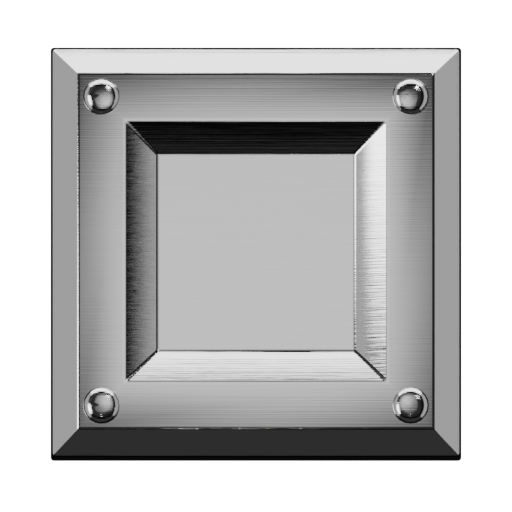
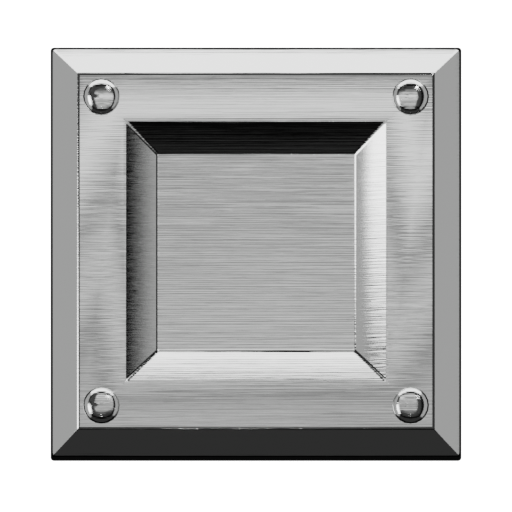
Hard-edged bands on the locked plate softbox
A mirror shows what is in front of it, so a card that is a smooth
radial blob reflects as a smooth radial blob - indistinguishable
from matte. What reads as polish is an edge. The gem sky in
build_lights has always known this; its ramp is all hard stops.

Also restores the ramp stop loop, which an earlier edit had
swallowed whole. The card had been running on a default black-to-
white ramp under CONSTANT interpolation - black everywhere - which
is why two different ramps rendered byte-identical percentiles.

diff --git a/tools/blender/render_items.py b/tools/blender/render_items.py
@@ -3712,16 +3712,16 @@ LOCK_BOX_DROP = 0.60
 # be roughly the size of the piece.
 LOCK_CEILING_SPAN = 0.34
 LOCK_CEILING_Z = 0.30
-LOCK_CEILING_PEAK = 1.60
-# Stops on the softbox's radial falloff, from its rim inwards. A
-# spherical gradient over centred 0..1 coordinates reads about 0.3 at
-# the card's corners and 1.0 at its middle.
-LOCK_CEILING_RAMP = ((0.00, 0.00), (0.34, 0.04), (0.62, 0.34),
-                     (0.86, 0.88), (1.00, 1.00))
+LOCK_CEILING_PEAK = 2.20
+# The bands across the softbox, top of frame to bottom - and screen
+# up is world -y here, so the first stop is the top edge.
+LOCK_CEILING_RAMP = ((0.00, 0.30), (0.13, 1.00), (0.33, 0.26),
+                     (0.49, 0.72), (0.60, 0.22), (0.76, 0.50),
+                     (0.88, 0.20))
 # And a big dim one well above it, for fill - the small card lights
 # almost nothing on its own.
 LOCK_DOME_Z = 0.95
-LOCK_DOME_STRENGTH = 0.05
+LOCK_DOME_STRENGTH = 0.10
 # The four walls, in the order -y (top of frame), +y, -x, +x.
 LOCK_WALLS = (5.00, 0.06, 0.70, 0.70)
 LOCK_FRAME_CELLS = 1.25
@@ -3946,33 +3946,38 @@ def render_locked_plate():
         emit = nodes.new("ShaderNodeEmission")
         emit.inputs["Strength"].default_value = strength
         if graded:
-            # A RADIAL FALLOFF, hot in the middle and near nothing at
-            # the edges - which is how a real softbox is built and the
-            # thing every linear ramp here was missing. A flat card
-            # reflects as a flat patch; a card with a hot spot
-            # reflects as a highlight, and a highlight is what reads
-            # as polish. Edges fading rather than cutting is the same
-            # trick: a hard-edged card leaves a hard-edged rectangle
-            # sitting on the metal.
+            # HARD-EDGED BANDS, not a falloff.
             #
-            # Mapping is used only to TRANSLATE here. Generated
-            # coordinates run 0..1, so the centre has to be brought to
-            # the origin before a spherical gradient means anything -
-            # and translating them is safe where rotating them is not.
+            # A mirror shows you what is in front of it. A card that
+            # is a smooth radial blob reflects as a smooth radial
+            # blob, which is indistinguishable from a matte surface -
+            # that is what the last two passes produced. What reads
+            # as polish is an EDGE: a bright band that stops.
+            #
+            # The gem family's sky in `build_lights` has known this
+            # all along and its ramp is all hard stops - white at
+            # 0.33, down to 0.09 at 0.50, bright again at 0.78. Same
+            # idea here, and CONSTANT interpolation so the stops
+            # really are steps rather than ramps.
+            #
+            # The card is plate-sized, so these bands land on the
+            # floor at their own width, in plan.
             coords = nodes.new("ShaderNodeTexCoord")
-            mapping = nodes.new("ShaderNodeMapping")
-            mapping.inputs["Location"].default_value = (-0.5, -0.5, -0.5)
-            links.new(coords.outputs["Generated"], mapping.inputs["Vector"])
-            gradient = nodes.new("ShaderNodeTexGradient")
-            gradient.gradient_type = 'SPHERICAL'
-            links.new(mapping.outputs["Vector"], gradient.inputs["Vector"])
+            axis = nodes.new("ShaderNodeSeparateXYZ")
+            links.new(coords.outputs["Generated"], axis.inputs["Vector"])
             ramp = nodes.new("ShaderNodeValToRGB")
+            ramp.color_ramp.interpolation = 'CONSTANT'
+            # The two elements a fresh ramp already has are set in
+            # place; the rest are added and held by REFERENCE. They
+            # cannot be indexed - `new()` inserts in sorted order and
+            # moving an element re-sorts the list, so `stops[i]`
+            # stops meaning what it did a line ago.
             stops = ramp.color_ramp.elements
             for index, (position, value) in enumerate(LOCK_CEILING_RAMP):
-                element = stops[index] if index < len(stops) else stops.new(position)
+                element = stops[index] if index < 2 else stops.new(position)
                 element.position = position
                 element.color = (value, value, value, 1.0)
-            links.new(gradient.outputs["Fac"], ramp.inputs["Fac"])
+            links.new(axis.outputs["Y"], ramp.inputs["Fac"])
             links.new(ramp.outputs["Color"], emit.inputs["Color"])
         links.new(emit.outputs["Emission"], out.inputs["Surface"])
         ob.data.materials.append(mat)
